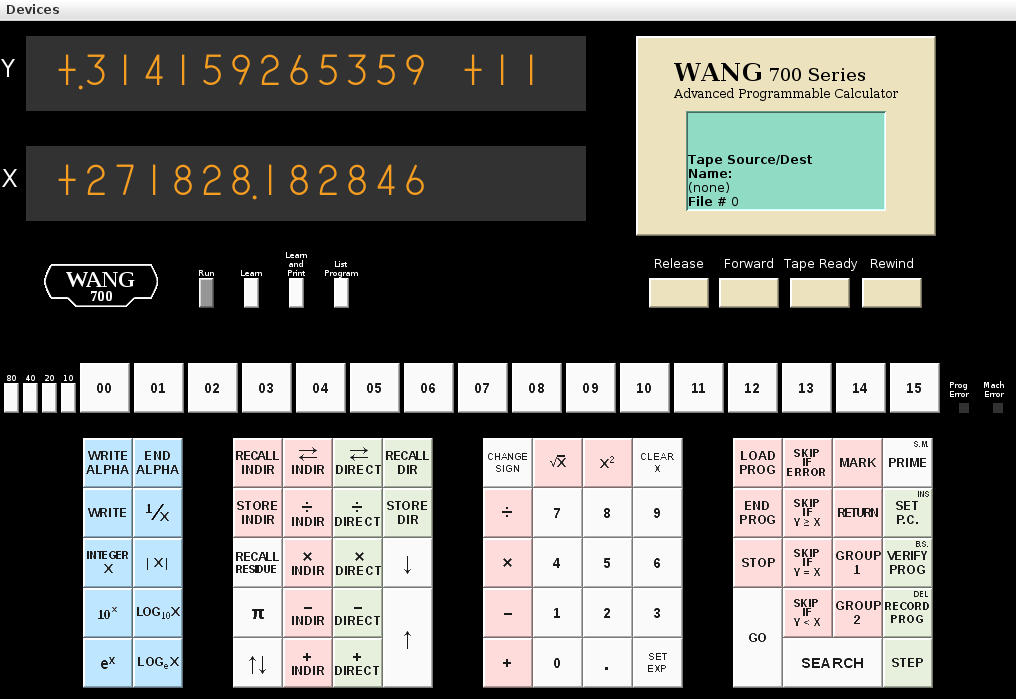
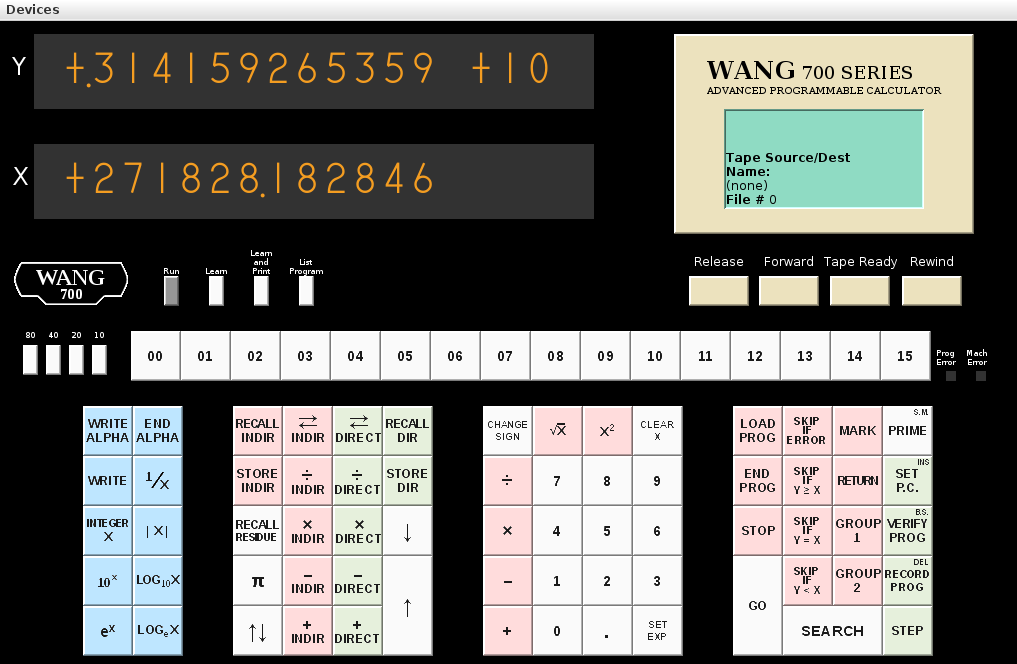
cleanup layout

diff --git a/w700-sim/w700_fe.java b/w700-sim/w700_fe.java
@@ -1,5 +1,5 @@
 // Copyright (c) 2011 Douglas Miller
-// $Id: w700_fe.java,v 1.22 2011/11/11 13:19:36 drmiller Exp $
+// $Id: w700_fe.java,v 1.23 2011/11/13 01:33:31 drmiller Exp $
 
 import java.awt.*;
 import java.awt.event.*;
@@ -13,7 +13,7 @@ import javax.print.attribute.*;
 import javax.print.attribute.standard.*;
 
 class _Key {
-	final String ident = "$Id: w700_fe.java,v 1.22 2011/11/11 13:19:36 drmiller Exp $";
+	final String ident = "$Id: w700_fe.java,v 1.23 2011/11/13 01:33:31 drmiller Exp $";
 
 	static final Color orange1 = new Color(255, 210, 180, 255);
 	static final Color blue1 = new Color(190, 230, 255, 255);
@@ -126,7 +126,7 @@ class FEexit extends Thread {
 
 public class w700_fe
 {
-	final String ident = "$Id: w700_fe.java,v 1.22 2011/11/11 13:19:36 drmiller Exp $";
+	final String ident = "$Id: w700_fe.java,v 1.23 2011/11/13 01:33:31 drmiller Exp $";
 
 	public static File _dir;
 	public static java.text.SimpleDateFormat _timestamp =
@@ -212,10 +212,10 @@ public class w700_fe
 		JPanel pan;
 		JLabel lab;
 
-		lab = new JLabel("Y");
+		lab = new JLabel(" Y");
 		lab.setFont(new Font("Sans-serif", Font.PLAIN, 24));
 		lab.setForeground(Color.white);
-		lab.setPreferredSize(new Dimension(20, 75));
+		lab.setPreferredSize(new Dimension(25, 75));
 		lab.setOpaque(false);
 		s.gridx = 0;
 		s.gridy = 0;
@@ -242,10 +242,10 @@ public class w700_fe
 		gridbag.setConstraints(pan, s);
 		front_end.add(pan);
 
-		lab = new JLabel("X");
+		lab = new JLabel(" X");
 		lab.setFont(new Font("Sans-serif", Font.PLAIN, 24));
 		lab.setForeground(Color.white);
-		lab.setPreferredSize(new Dimension(20, 75));
+		lab.setPreferredSize(new Dimension(25, 75));
 		lab.setOpaque(false);
 		s.gridx = 0;
 		s.gridy = 2;
@@ -263,7 +263,7 @@ public class w700_fe
 		front_end.add(dspx);
 
 		pan = new JPanel();
-		pan.setPreferredSize(new Dimension(40, 25));
+		pan.setPreferredSize(new Dimension(70, 25));
 		pan.setOpaque(false);
 		s.gridx = 2;
 		s.gridy = 0;
@@ -330,13 +330,13 @@ public class w700_fe
 		if (inp == null) System.err.println("damn warnings");
 		front_end.getContentPane().setBackground(Color.black);
 		front_end.setDefaultCloseOperation(JFrame.EXIT_ON_CLOSE);
-		front_end.setSize(1024,725);
+		front_end.setSize(1025,690);
 		front_end.setVisible(true);
 	}
 }
 
 class Wang700_ProgErr extends JComponent {
-	final String ident = "$Id: w700_fe.java,v 1.22 2011/11/11 13:19:36 drmiller Exp $";
+	final String ident = "$Id: w700_fe.java,v 1.23 2011/11/13 01:33:31 drmiller Exp $";
 	static final long serialVersionUID = 311457692038L;
 
 	GridBagLayout gridbag = new GridBagLayout();
@@ -418,7 +418,7 @@ class Wang700_SimError
 class Wang700_SimInput
 		implements Runnable, WindowListener, ActionListener
 {
-	final String ident = "$Id: w700_fe.java,v 1.22 2011/11/11 13:19:36 drmiller Exp $";
+	final String ident = "$Id: w700_fe.java,v 1.23 2011/11/13 01:33:31 drmiller Exp $";
 	Wang700_Display _dspx;
 	Wang700_Display _dspy;
 	Wang700_Tape _tape;
@@ -531,7 +531,7 @@ class Wang700_SimInput
 
 class Wang700_Tape extends JComponent
 {
-	final String ident = "$Id: w700_fe.java,v 1.22 2011/11/11 13:19:36 drmiller Exp $";
+	final String ident = "$Id: w700_fe.java,v 1.23 2011/11/13 01:33:31 drmiller Exp $";
 	static final long serialVersionUID = 311457692039L;
 	java.io.RandomAccessFile _tf;
 	java.io.OutputStream _fout;
@@ -583,8 +583,8 @@ class Wang700_Tape extends JComponent
 		jp.add(_window, new Integer(1), 500);
 
 		JLabel cass = new JLabel("<HTML><BR>" +
-			"<FONT SIZE=+2><B>WANG</B></FONT> 700 Series<BR>" +
-			"<FONT SIZE=-1>Advanced Programmable Calculator</FONT></HTML>",
+			"<FONT SIZE=+2><B>WANG</B></FONT> 700 SERIES<BR>" +
+			"<FONT SIZE=-2>ADVANCED PROGRAMMABLE CALCULATOR</FONT></HTML>",
 			SwingConstants.CENTER);
 		lb = BorderFactory.createBevelBorder(BevelBorder.RAISED);
 		cass.setBorder(lb);
@@ -1063,7 +1063,7 @@ class SuffFileChooser extends JFileChooser {
 class Wang700_Model711
 	implements ActionListener, ComponentListener
 {
-	final String ident = "$Id: w700_fe.java,v 1.22 2011/11/11 13:19:36 drmiller Exp $";
+	final String ident = "$Id: w700_fe.java,v 1.23 2011/11/13 01:33:31 drmiller Exp $";
 	private byte[] cn24_xlate;
 	private String[] cn24_spcl;
 
@@ -1653,7 +1653,7 @@ class Wang700_Model711
 class Wang700_Display extends JComponent
 		implements ActionListener
 {
-	final String ident = "$Id: w700_fe.java,v 1.22 2011/11/11 13:19:36 drmiller Exp $";
+	final String ident = "$Id: w700_fe.java,v 1.23 2011/11/13 01:33:31 drmiller Exp $";
 	static final long serialVersionUID = 311457692037L;
 	final byte[] sign_chr = new byte[]{'+','-','+','-','+','-','+','-','+','-','+','-','+','-','+',' '};
 	final byte[] disp_chr = new byte[]{'0','1','2','3','4','5','6','7','8','9','A','B','C','D','E',' '};
@@ -1840,7 +1840,7 @@ class Wang700_Display extends JComponent
 class Wang700_Keyboard extends JComponent
 	implements ActionListener, KeyListener, WindowListener, ComponentListener
 {
-	final String ident = "$Id: w700_fe.java,v 1.22 2011/11/11 13:19:36 drmiller Exp $";
+	final String ident = "$Id: w700_fe.java,v 1.23 2011/11/13 01:33:31 drmiller Exp $";
 	static final long serialVersionUID = 31145769203L;
 	static final int num_kbds = 3;
 
@@ -2264,7 +2264,7 @@ class Wang700_Keyboard extends JComponent
 
 class Wang700_Keyboards extends JComponent
 {
-	final String ident = "$Id: w700_fe.java,v 1.22 2011/11/11 13:19:36 drmiller Exp $";
+	final String ident = "$Id: w700_fe.java,v 1.23 2011/11/13 01:33:31 drmiller Exp $";
 	static final long serialVersionUID = 311457692034L;
 	public Wang700_Keyboards() { }
 
@@ -2426,7 +2426,7 @@ class Wang700_Keyboards extends JComponent
 
 class Wang700_Keyboard_main extends Wang700_Keyboards
 {
-	final String ident = "$Id: w700_fe.java,v 1.22 2011/11/11 13:19:36 drmiller Exp $";
+	final String ident = "$Id: w700_fe.java,v 1.23 2011/11/13 01:33:31 drmiller Exp $";
 	static final long serialVersionUID = 311457692031L;
 	static final int num_keys = 67;
 
@@ -2651,7 +2651,7 @@ class Wang700_Keyboard_main extends Wang700_Keyboards
 
 class Wang700_Keyboard_meta extends Wang700_Keyboards
 {
-	final String ident = "$Id: w700_fe.java,v 1.22 2011/11/11 13:19:36 drmiller Exp $";
+	final String ident = "$Id: w700_fe.java,v 1.23 2011/11/13 01:33:31 drmiller Exp $";
 	static final long serialVersionUID = 311457692032L;
 	static final int num_keys = 20;
 
@@ -2675,31 +2675,41 @@ class Wang700_Keyboard_meta extends Wang700_Keyboards
 
 		setLayout(gridbag);
 
-		c.gridx = _col;
-		pan = new JPanel();
-		pan.setPreferredSize(new Dimension(1, 50));
-		pan.setOpaque(false);
-		gridbag.setConstraints(pan, c);
-		add(pan);
-		++_col;
-
-		addPushButton(c, 2, 1, 0, 1,"80","",_Key.white2, false,
-			new _Key(_Key.white1, _Key.GROUP(2,_Key.META_PRE(15,8))));
-		addPushButton(c, 2, 1, 1, 1,"40","",_Key.white2, false,
-			new _Key(_Key.white1, _Key.GROUP(3,_Key.META_PRE(15,4))));
-		addPushButton(c, 2, 1, 2, 1,"20","",_Key.white2, false,
-			new _Key(_Key.white1, _Key.GROUP(4,_Key.META_PRE(15,2))));
-		addPushButton(c, 2, 1, 3, 1,"10","",_Key.white2, false,
-			new _Key(_Key.white1, _Key.GROUP(5,_Key.META_PRE(15,1))));
-		_col += 4;
-
 //		c.gridx = _col;
+//		c.gridy = _row;
+//		c.gridwidth = 1;
+//		c.gridheight = 2;
 //		pan = new JPanel();
 //		pan.setPreferredSize(new Dimension(1, 50));
 //		pan.setOpaque(false);
 //		gridbag.setConstraints(pan, c);
 //		add(pan);
 //		++_col;
+
+		addPushButton(c, 4, 1, 0, 1,"80","",_Key.white2, false,
+			new _Key(_Key.white1, _Key.GROUP(2,_Key.META_PRE(15,8))));
+		addPushButton(c, 4, 1, 1, 1,"40","",_Key.white2, false,
+			new _Key(_Key.white1, _Key.GROUP(3,_Key.META_PRE(15,4))));
+		addPushButton(c, 4, 1, 2, 1,"20","",_Key.white2, false,
+			new _Key(_Key.white1, _Key.GROUP(4,_Key.META_PRE(15,2))));
+		addPushButton(c, 4, 1, 3, 1,"10","",_Key.white2, false,
+			new _Key(_Key.white1, _Key.GROUP(5,_Key.META_PRE(15,1))));
+		_col += 4;
+
+		// need to reset after pushbuttons!
+		c.insets.left = 0;
+		c.insets.right = 0;
+
+		c.gridx = _col;
+		c.gridy = _row;
+		c.gridwidth = 1;
+		c.gridheight = 2;
+		pan = new JPanel();
+		pan.setPreferredSize(new Dimension(20, 50));
+		pan.setOpaque(false);
+		gridbag.setConstraints(pan, c);
+		add(pan);
+		++_col;
 
 		c.anchor = GridBagConstraints.SOUTH;
 		addButton(c,1, -2, 0, 0, "icons/k00.gif",
@@ -2737,18 +2747,27 @@ class Wang700_Keyboard_meta extends Wang700_Keyboards
 		_col += 16;
 
 		c.gridx = _col;
+		c.gridy = _row;
+		c.gridwidth = 1;
+		c.gridheight = 2;
 		pan = new JPanel();
-		pan.setPreferredSize(new Dimension(1, 50));
+		pan.setPreferredSize(new Dimension(5, 50));
 		pan.setOpaque(false);
 		gridbag.setConstraints(pan, c);
 		add(pan);
 		++_col;
 
 		c.gridx = _col;
+		c.gridy = _row;
+		c.gridwidth = 1;
+		c.gridheight = 2;
 		gridbag.setConstraints(pe, c);
 		add(pe);
 		++_col;
 		c.gridx = _col;
+		c.gridy = _row;
+		c.gridwidth = 1;
+		c.gridheight = 2;
 		gridbag.setConstraints(me, c);
 		add(me);
 
@@ -2761,7 +2780,7 @@ class Wang700_Keyboard_meta extends Wang700_Keyboards
 
 class Wang700_Keyboard_stick extends Wang700_Keyboards
 {
-	final String ident = "$Id: w700_fe.java,v 1.22 2011/11/11 13:19:36 drmiller Exp $";
+	final String ident = "$Id: w700_fe.java,v 1.23 2011/11/13 01:33:31 drmiller Exp $";
 	static final long serialVersionUID = 311457692033L;
 	static final int num_keys = 22;
 
@@ -2786,12 +2805,22 @@ class Wang700_Keyboard_stick extends Wang700_Keyboards
 
 		setLayout(gridbag);
 
+		c.gridx = _col;
+		c.gridy = _row;
+		c.gridheight = 2;
+		pan = new JPanel();
+		pan.setPreferredSize(new Dimension(10,25));
+		pan.setOpaque(false);
+		gridbag.setConstraints(pan, c);
+		add(pan);
+		++_col;
+
 		java.net.URL url;
 		url = w700_fe.class.getResource("icons/logo-2.gif");
 		ImageIcon ic = new ImageIcon(url);
 		JLabel lab = new JLabel(ic);
-		c.gridx = 0;
-		c.gridy = 0;
+		c.gridx = _col;
+		c.gridy = _row;
 		c.gridheight = 2;
 		c.anchor = GridBagConstraints.SOUTHWEST;
 		gridbag.setConstraints(lab, c);
@@ -2800,10 +2829,10 @@ class Wang700_Keyboard_stick extends Wang700_Keyboards
 		_col += 1;
 
 		c.gridx = _col;
-		c.gridy = 0;
+		c.gridy = _row;
 		c.gridheight = 2;
 		pan = new JPanel();
-		pan.setPreferredSize(new Dimension(25,25));
+		pan.setPreferredSize(new Dimension(20,25));
 		pan.setOpaque(false);
 		gridbag.setConstraints(pan, c);
 		add(pan);
@@ -2820,10 +2849,10 @@ class Wang700_Keyboard_stick extends Wang700_Keyboards
 		_col += 4;
 
 		c.gridx = _col;
-		c.gridy = 0;
+		c.gridy = _row;
 		c.gridheight = 2;
 		pan = new JPanel();
-		pan.setPreferredSize(new Dimension(250, 30));
+		pan.setPreferredSize(new Dimension(325, 30));
 		pan.setOpaque(false);
 		gridbag.setConstraints(pan, c);
 		add(pan);
@@ -2843,7 +2872,7 @@ class Wang700_Keyboard_stick extends Wang700_Keyboards
 		_col += 4;
 
 		c.gridx = _col;
-		c.gridy = 0;
+		c.gridy = _row;
 		c.gridheight = 2;
 		pan = new JPanel();
 		pan.setPreferredSize(new Dimension(35,25));
